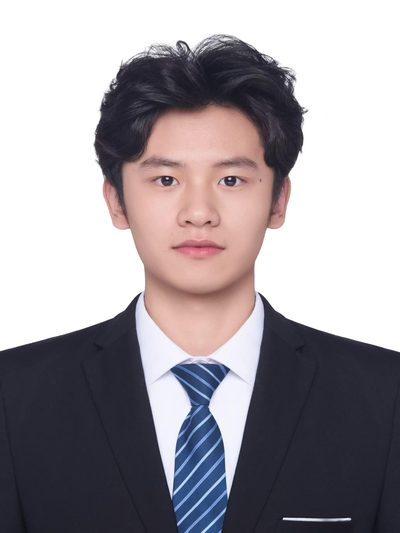
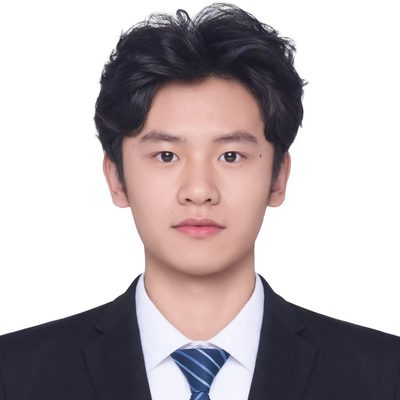
feat(ui): v1.3 方形头像 + 天蓝点缀 #79BEDF + 奶油主按钮 #F4DCB4
- 头像改 1:1 方形（160px，4px 微圆角），放弃胶囊形
- 新增 --sky token：极光换入天蓝光晕，荣誉区块铺天蓝色带
- 主按钮改奶油沙色渐变，文字转墨色（对比度 11.7:1）
- 三色分工锁写入 DESIGN.md：绿=点睛 / 蓝=背景 / 奶油=CTA

diff --git a/assets/css/style.css b/assets/css/style.css
@@ -22,6 +22,14 @@
   --mint-1: #B9E8CF;           /* 极光亮薄荷 */
   --mint-2: #DFF4E7;           /* 极光浅薄荷 */
 
+  /* 天蓝背景点缀 #79BEDF */
+  --sky: #79BEDF;
+  --sky-tint: #F0F7FB;         /* 天空色带（#79BEDF 极淡衍生） */
+
+  /* 奶油沙色 CTA #F4DCB4 */
+  --gold: #F4DCB4;
+  --gold-deep: #E9CD9C;
+
   /* 阴影（带一丝薄荷调） */
   --shadow-card: 0 1px 2px rgba(20, 28, 24, .04), 0 10px 28px -14px rgba(31, 122, 77, .10);
   --shadow-pop: 0 2px 4px rgba(20, 28, 24, .04), 0 16px 36px -16px rgba(31, 122, 77, .18);
@@ -149,17 +157,18 @@ svg.icon {
 }
 .btn-sm { height: 36px; padding: 0 16px; font-size: 13.5px; }
 .btn-primary {
-  background: linear-gradient(120deg, #2AA767 0%, var(--brand-deep) 50%, #2AA767 100%);
+  background: linear-gradient(120deg, #F8E5C6 0%, var(--gold) 50%, #EFD3A4 100%);
   background-size: 220% 100%;
   background-position: 0% 50%;
-  color: #fff;
-  box-shadow: 0 1px 2px rgba(20, 28, 24, .10), 0 8px 18px -8px rgba(31, 122, 77, .35);
+  color: var(--ink);
+  box-shadow: 0 1px 2px rgba(20, 28, 24, .10), 0 8px 18px -8px rgba(228, 197, 143, .55);
 }
 .btn-primary:hover {
   transform: translateY(-1px);
   background-position: 90% 50%;
-  box-shadow: 0 2px 4px rgba(20, 28, 24, .10), 0 12px 24px -10px rgba(31, 122, 77, .45);
+  box-shadow: 0 2px 4px rgba(20, 28, 24, .10), 0 12px 24px -10px rgba(228, 197, 143, .65);
 }
+.btn-primary:hover .icon { color: var(--brand-deep); }
 .btn-primary:active { transform: translateY(0) scale(.985); }
 .btn-ghost {
   background: var(--surface); color: var(--ink);
@@ -185,7 +194,7 @@ svg.icon {
 }
 .hero-glow::before {
   width: 640px; height: 420px; left: 4%; top: 6%;
-  background: radial-gradient(closest-side, rgba(47, 163, 107, .16), transparent 72%);
+  background: radial-gradient(closest-side, rgba(121, 190, 223, .20), transparent 72%);
   animation: drift-a 26s ease-in-out infinite alternate;
 }
 .hero-glow::after {
@@ -195,7 +204,7 @@ svg.icon {
 }
 .hero-glow .blob {
   width: 460px; height: 320px; left: 34%; top: 30%;
-  background: radial-gradient(closest-side, rgba(185, 232, 207, .30), transparent 72%);
+  background: radial-gradient(closest-side, rgba(121, 190, 223, .16), transparent 72%);
   animation: drift-c 38s ease-in-out infinite alternate;
 }
 @keyframes drift-a {
@@ -215,14 +224,14 @@ svg.icon {
   display: flex; flex-direction: column; align-items: center; text-align: center;
 }
 .hero-avatar {
-  padding: 5px; border-radius: var(--r-pill);
+  padding: 0; border-radius: 4px;
   background: var(--surface);
   box-shadow: var(--shadow-pop), 0 0 0 1px var(--line);
   margin-bottom: 20px;
 }
 .hero-avatar img {
-  width: 120px; height: 160px; object-fit: cover;
-  border-radius: var(--r-pill);
+  width: 160px; height: 160px; object-fit: cover;
+  border-radius: 4px;
 }
 .hero-hello { color: var(--ink-2); font-size: 15px; letter-spacing: 2px; }
 .hero-name {
@@ -277,6 +286,10 @@ svg.icon {
 .section-tint {
   background: linear-gradient(180deg,
     var(--bg) 0%, var(--bg-tint) 14%, var(--bg-tint) 86%, var(--bg) 100%);
+}
+.section-tint--sky {
+  background: linear-gradient(180deg,
+    var(--bg) 0%, var(--sky-tint) 14%, var(--sky-tint) 86%, var(--bg) 100%);
 }
 .section-head { text-align: center; margin-bottom: 44px; }
 .section-pill {
@@ -497,7 +510,7 @@ svg.icon {
   .nav-links { display: none; }
   .section { padding: 40px 0; }
   .hero { padding-top: 32px; }
-  .hero-avatar img { width: 104px; height: 139px; }
+  .hero-avatar img { width: 128px; height: 128px; }
   .tl-item { padding-left: 30px; }
   .timeline::before { left: 5px; }
   .tl-item::before { width: 13px; height: 13px; border-width: 3px; top: 26px; }

diff --git a/index.html b/index.html
@@ -10,7 +10,7 @@
   <meta property="og:type" content="website">
   <meta property="og:image" content="assets/img/og-cover.png">
   <meta name="twitter:card" content="summary_large_image">
-  <meta name="theme-color" content="#F6FAF7">
+  <meta name="theme-color" content="#FFFFFF">
   <link rel="icon" type="image/svg+xml" href="assets/img/favicon.svg">
   <link rel="stylesheet" href="assets/css/style.css">
 </head>
@@ -44,7 +44,7 @@
       <div class="hero-glow" aria-hidden="true"><span class="blob"></span></div>
       <div class="container hero-inner">
         <div class="hero-avatar reveal">
-          <img src="assets/img/avatar.jpg" alt="李瑞祥的照片" width="132" height="176">
+          <img src="assets/img/avatar.jpg" alt="李瑞祥的照片" width="160" height="160">
         </div>
         <p class="hero-hello reveal" style="--d:.05s">你好，我是</p>
         <h1 class="hero-name reveal" style="--d:.1s">李瑞祥</h1>
@@ -302,7 +302,7 @@
     </section>
 
     <!-- 荣誉 -->
-    <section class="section section-tint" id="honors">
+    <section class="section section-tint section-tint--sky" id="honors">
       <div class="container">
         <header class="section-head reveal">
           <span class="section-pill">荣誉</span>

diff --git a/DESIGN.md b/DESIGN.md
@@ -1,14 +1,16 @@
-# DESIGN.md — 「青柠胶囊 Mint Capsule」UI 风格 Spec v1.2
+# DESIGN.md — 「青柠胶囊 Mint Capsule」UI 风格 Spec v1.3
 
 > 个人主页设计系统 · 李瑞祥 · AI Agent 产品研发
-> 关键词：白色为主 · 薄荷层次带 · 流动的绿 · 胶囊元素 · 卡片信息分组
+> 关键词：白色为主 · 天蓝点缀 #79BEDF · 奶油 CTA #F4DCB4 · 薄荷流动 · 方形头像 · 胶囊元素
 
 ## 1. 设计原则
 
-1. **白色为主，薄荷做层次**：页面画布纯白 `#FFFFFF`；经历与荣誉两个区块铺极淡薄荷带（`#F5F9F7` 渐变），纵向形成"白-薄荷-白"的节奏，避免全白失焦。
-2. **流动的绿**：绿色必须"活"——Hero 三团薄荷极光缓慢漂移呼吸（26s/32s/38s 交错）、时间线轨道有流光下行（5.5s 循环）、页面顶部有随滚动生长的绿色进度条（CSS scroll-driven）、主按钮 hover 时渐变流动。全部只动 `transform`/`opacity`/`background-position`，`prefers-reduced-motion` 下全部静止。
-3. **绿色点睛预算**：静态绿色仅允许出现在——主 CTA 按钮、「求职中」状态胶囊、时间线圆点与流光、卡片小图标底、统计数字、hover/focus 反馈；其余一律中性灰绿。
-4. **胶囊即语言**：按钮、标签、导航、徽章全部使用 `border-radius: 999px` 胶囊形态。
+1. **白色为主，双色带做层次**：画布纯白；经历区块铺薄荷带（`#F5F9F7`），荣誉区块铺天蓝带（`#F0F7FB`，由 `#79BEDF` 淡化），白-薄荷-白-天蓝-白的纵向节奏。
+2. **头像用方形**：Hero 头像为 1:1 方形（160×160，4px 微圆角），不做胶囊形——"要圆不圆、要方不方"是被明确否决的形态。
+3. **奶油 CTA**：主按钮底色 `#F4DCB4`（渐变 `#F8E5C6 → #EFD3A4`），文字用墨色 `--ink`（对比度 ≈ 11.7:1，白字在浅底上不可读）。
+4. **流动的绿**：极光漂移（天蓝+薄荷双色）、时间线流光、滚动进度条、按钮渐变流动；全部只动 `transform`/`opacity`，`prefers-reduced-motion` 下静止。
+5. **三色分工锁**：绿 = 品牌点睛（状态、时间线、图标、数字）；天蓝 = 仅背景氛围（极光、色带）；奶油 = 仅主按钮。互相不越界。
+6. **胶囊即语言**：按钮、标签、导航、徽章全部 `border-radius: 999px`（头像除外，见原则 2）。
 
 ## 2. 色彩 Tokens（CSS 自定义属性）
 
@@ -27,8 +29,11 @@
 | `--brand-deeper` | `#17653F` | 按钮/文字 hover |
 | `--brand-soft` | `#EDF7F1` | 绿胶囊底（仅状态胶囊与图标底） |
 | `--mint-1` / `--mint-2` | `#B9E8CF` / `#DFF4E7` | 极光亮/浅薄荷（仅用于动效光晕） |
+| `--sky` | `#79BEDF` | 天蓝点缀（仅背景：极光光晕、荣誉区块色带） |
+| `--sky-tint` | `#F0F7FB` | 天空色带（`#79BEDF` 极淡衍生） |
+| `--gold` / `--gold-deep` | `#F4DCB4` / `#E9CD9C` | 奶油沙色（仅主按钮底色，配墨色文字） |
 
-Hero 极光由三团径向渐变（`.hero-glow` 的 before/after/blob）组成，模糊 48px，16%–30% 透明度，缓慢漂移；这是"流动的绿"的主舞台。
+Hero 极光由三团径向渐变组成：天蓝（`rgba(121,190,223,.20)`）+ 薄荷（`rgba(153,216,180,.22)`）+ 浅天蓝（`.16`），模糊 48px 缓慢漂移。
 
 ## 3. 字体
 
